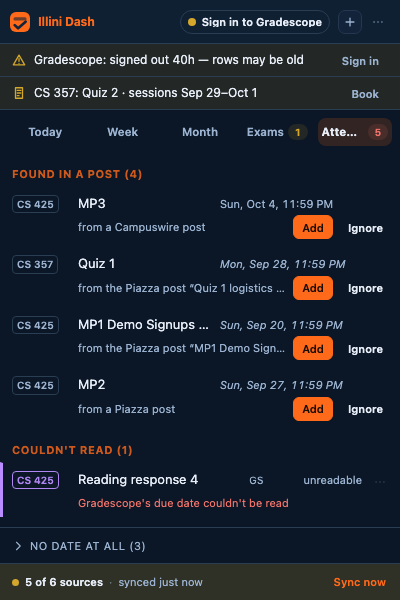
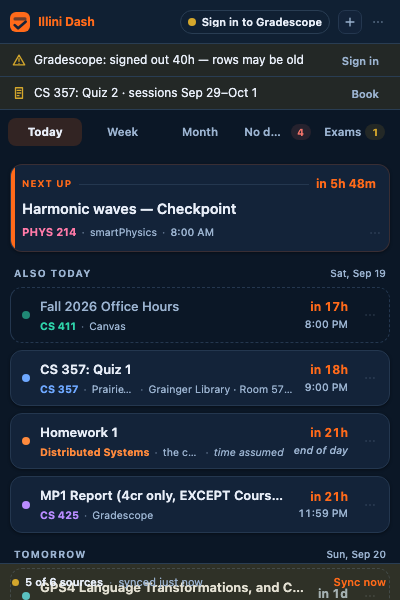
Wave 12 / W1 recorded, with the captures that verify it

diff --git a/PROGRESS.md b/PROGRESS.md
@@ -7,6 +7,45 @@ Spec: SPEC.md. Build order §10, gates §9. Detailed evidence lives in `docs/`.
 **Steps 1–12 are done. G0–G3 have passed. G4 and G5 are Sushi's and cannot start
 from here.**
 
+## Wave 12 / W1: the card row, Today, the week, the quiet state — 2026-09-19
+
+**D4, D5, D7, D13, D14.** `2065 tests, unchanged` — the suite does not import the popup.
+Verified by `npm run typecheck`, `npm run build`, `npm run shots -- popup` in both modes
+(dark first) and by **real pointer events** in `dist/preview-popup.html`: the row ⋯ opens
+on the right row (menu bottom 544 of 600), "See the week" reaches the week, and a press on
+the new **Source names** switch redrew the list with the source gone.
+
+**The row (D7)** is one function with three variants — card, hero, compact — so the Today
+board, the week's day cards and the exam board cannot drift apart. The one-phrase
+qualifiers moved onto the meta line under the title (source, exam room, "opens 9 AM",
+italic "time assumed", "+2 more", the practice chip); the ones that are a sentence with a
+control in them kept their own full-width line. A plain press calls `app.openDeadline`,
+which is still a no-op stub until D8 lands; ⌘/Ctrl-click and middle click open the source,
+and middle click needed its own `auxclick` because Chrome fires no `click` for it. The
+countdown is `--err` once past and `--brand-mark` inside a day — the accent-as-text token,
+because `--accent` is a fill and fails contrast at 12px.
+
+**Today (D4)** is `todayBoard`, and **the week (D5)** is seven cards with `weekStatus`'s
+one word. **The quiet state (D13)** draws only when `quietState` answers, which is only
+when every checkable source did; `emptyStateFor`'s failure wording is untouched.
+
+**Deliberately replaced** (inventory F71–F89, F93, F94): the day hour grid, its
+drag-to-draft and `renderPlaced`/the untimed band — `views/day.ts` is deleted rather than
+left dead — and the day ‹ › navigator (`navFor` now returns step 0 for the day, so `#nav`
+is hidden and Today is anchored to now). The week's `"—"` empty day is now "Nothing due",
+and its `time not posted` band is a row carrying `EOD`.
+
+**Measured** at 400×600, Today, dark: `html` 400 wide, `body.scrollWidth` 400, **0 elements
+past x=401**, **164px before the first row** (W0 measured 184 with the navigator). Week:
+400 wide, 0 past 401, label "Sep 19 – 25", seven cards.
+
+**One thing left short of clipped.** The Appearance panel gained a "Deadline rows" section,
+and with three palettes, three modes and two switches its content is 641px against a 571px
+box: the second switch sits 70px below the fold. The panel scrolls (`overflow-y: auto`), so
+both are reachable, and a real press on the scrolled-to switch works — but it is UI rule 8
+again and the panel belongs to the shell, so whoever owns `placeFloating` should decide
+whether the section moves to Settings.
+
 ## Wave 12 / W0: popup.ts split, and the new shell — 2026-09-19
 
 **1970 tests, unchanged — the suite does not import the popup, so none of this is pinned
